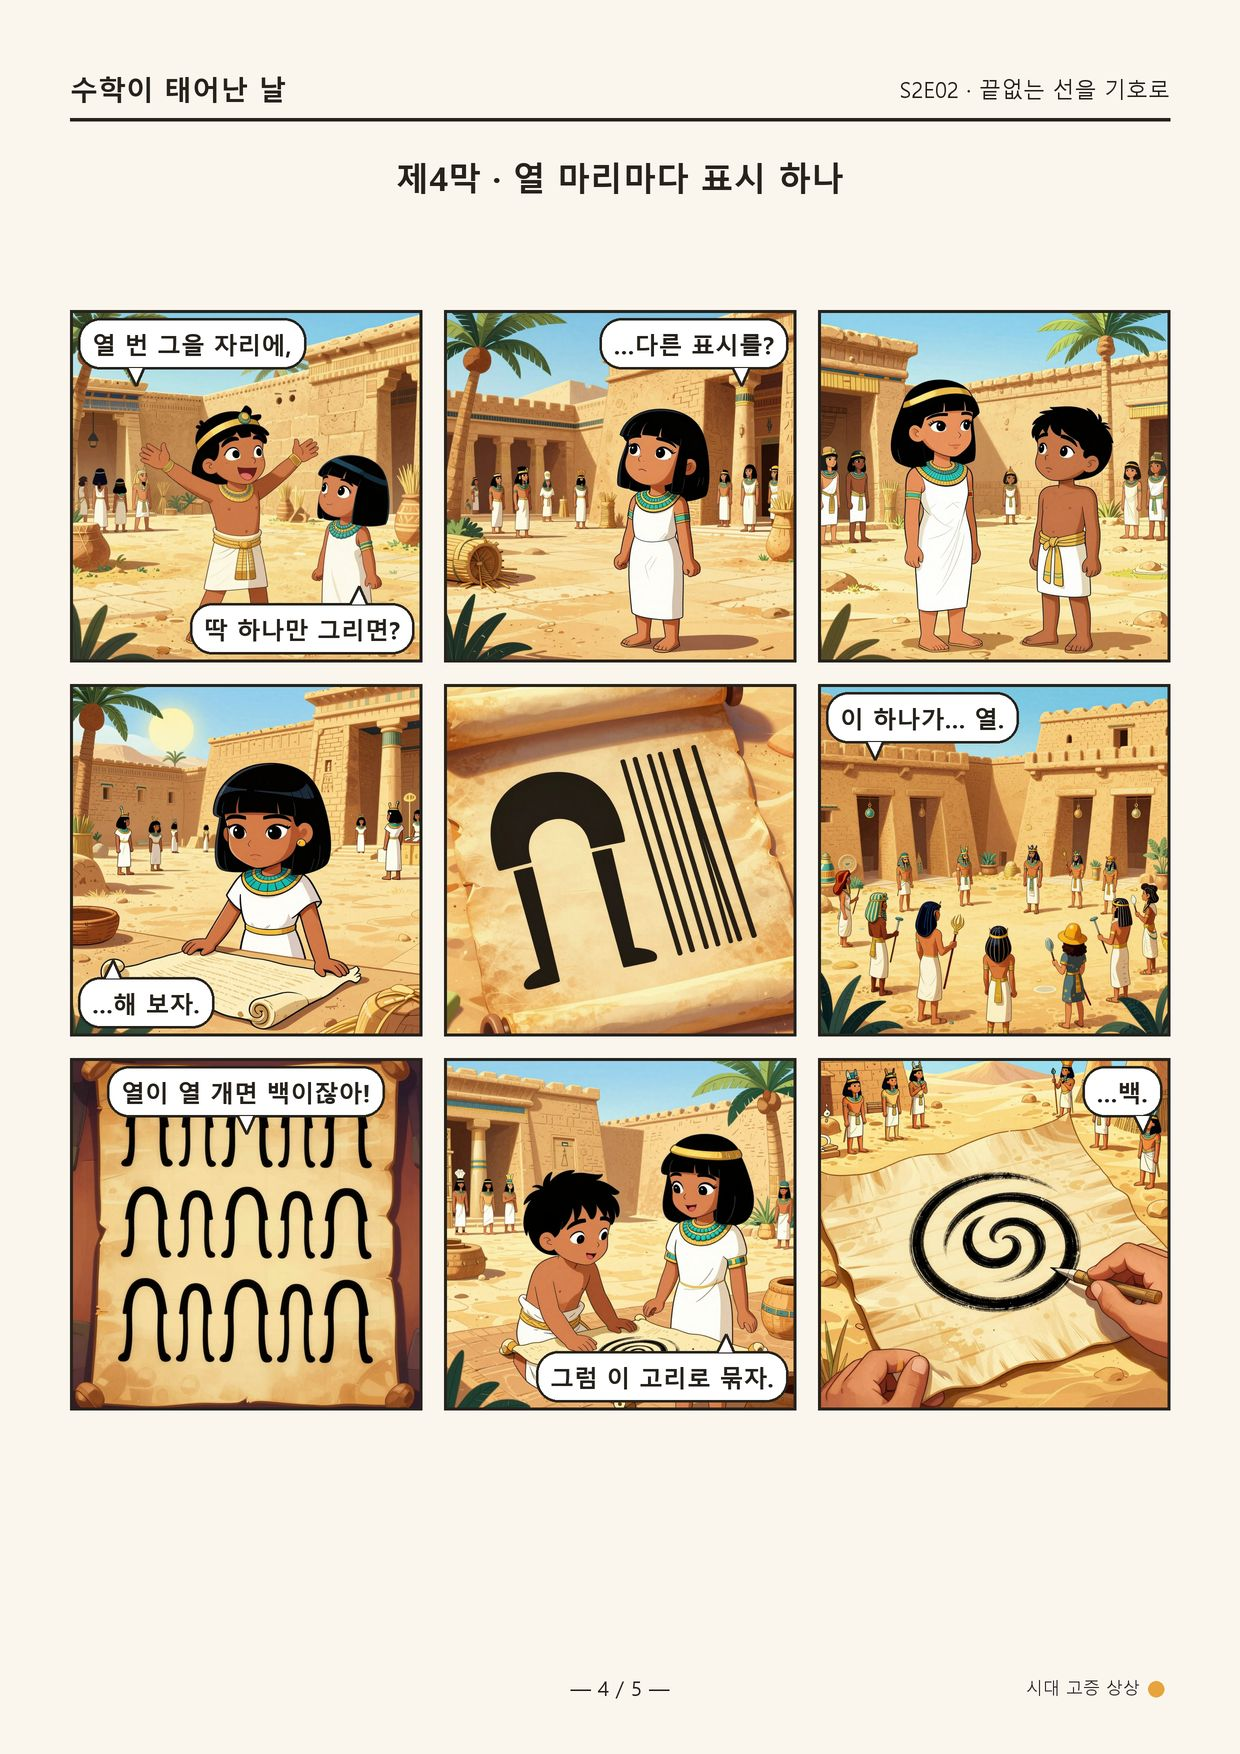
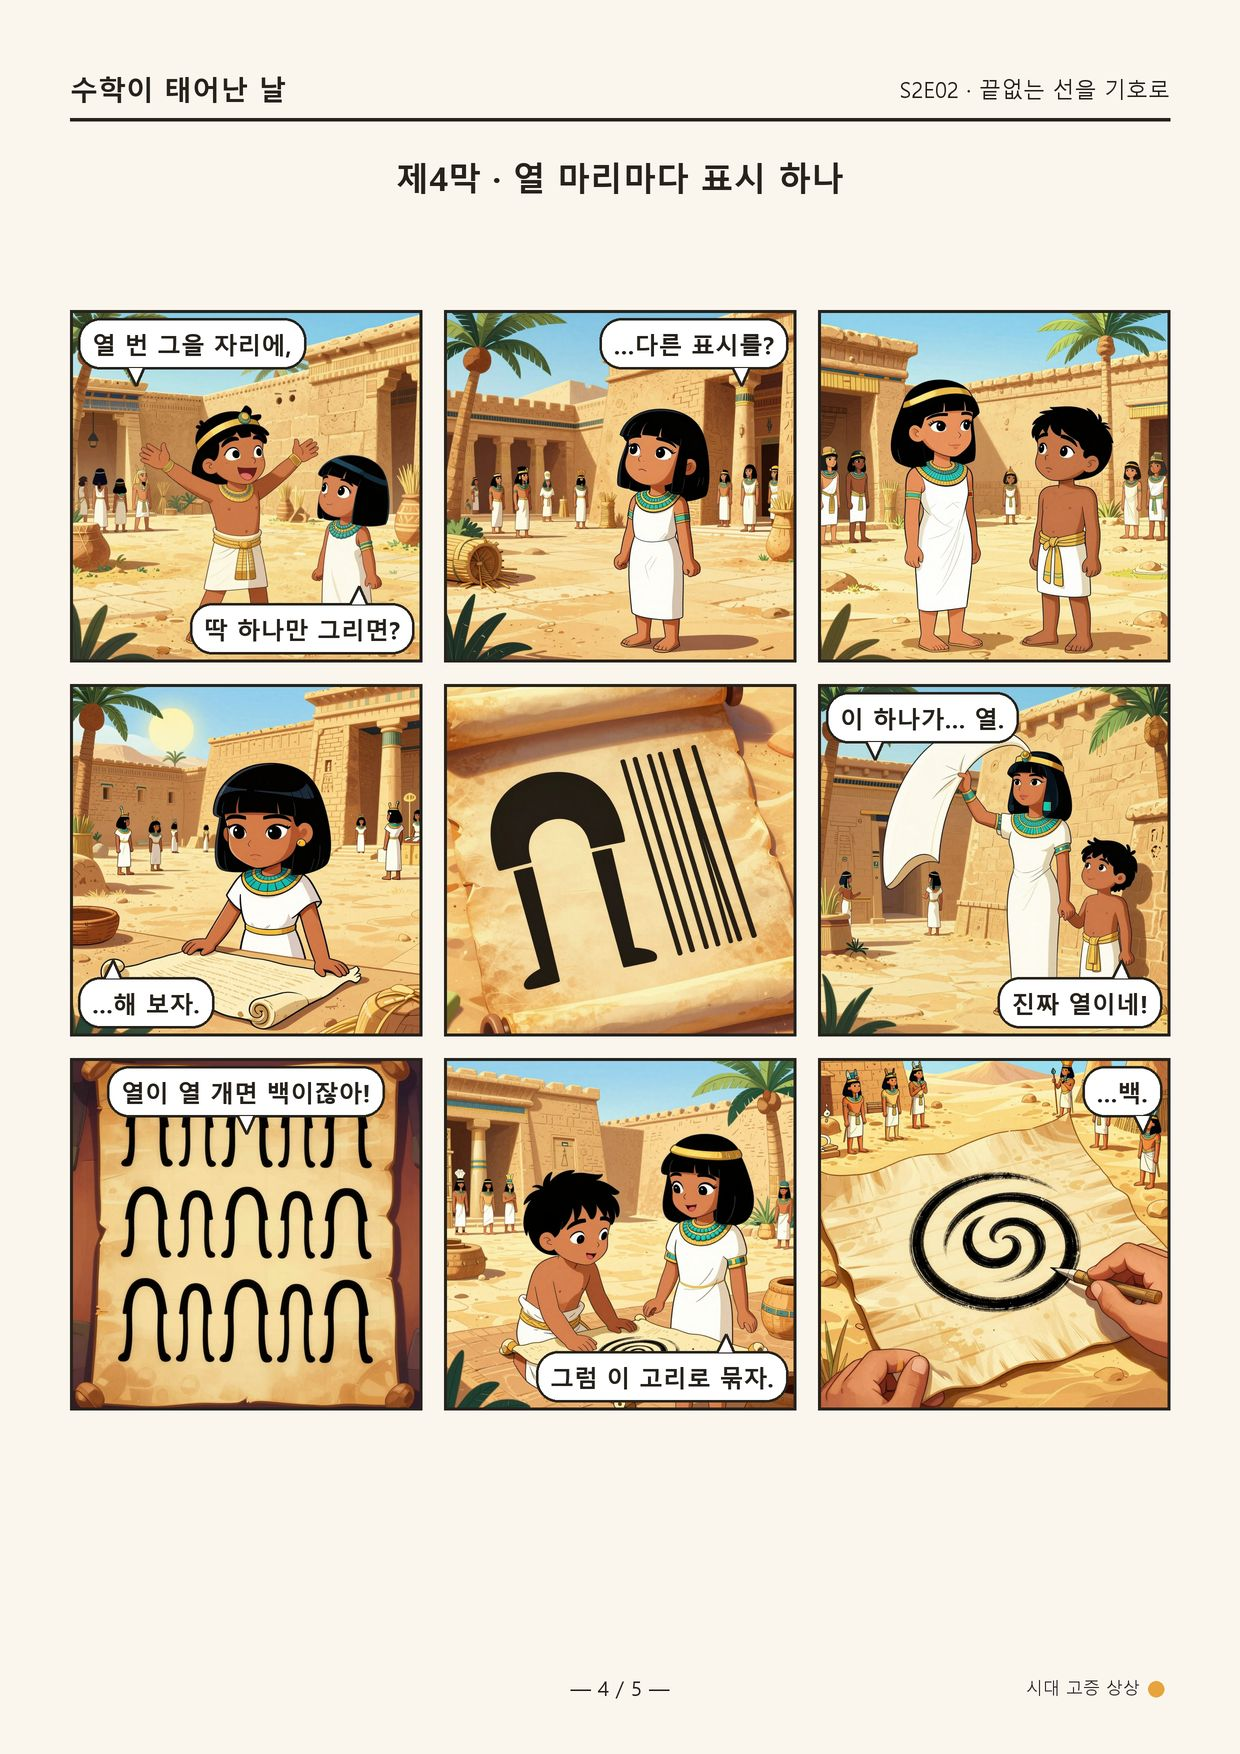
7화 대사 개선 — 대사팀 3인 심사 후 3건 이식
- 33컷: 아치=10 확정을 카르가 받아치게 함 ("진짜 열이네!")
- 40컷: 이 편의 핵심을 서기관 입으로 명시 ("겨우 여섯 개로?")
- 45컷: 9화(바빌론 자릿값) 떡밥을 설명체에서 아이들 주고받기로
        ("순서를 막 섞어도 백스물셋?" / "…자리는 상관없나 봐.")

그림은 그대로, 말풍선만 교체. sw 캐시 v82 → v83.

Claude-Session: https://claude.ai/code/session_01JprREVR4BMxXue8kKrM1AL

Changed region(s): [[0.6435, 0.3694, 0.95, 0.6157]]

diff --git a/sw.js b/sw.js
@@ -1,5 +1,5 @@
 // LevelPlay Service Worker - 오프라인 캐시 지원
-const CACHE_NAME = 'levelplay-v82-math-ep8';
+const CACHE_NAME = 'levelplay-v83-ep7-dialogue';
 
 // 즉시 새 SW로 전환 메시지
 self.addEventListener('message', e => {
